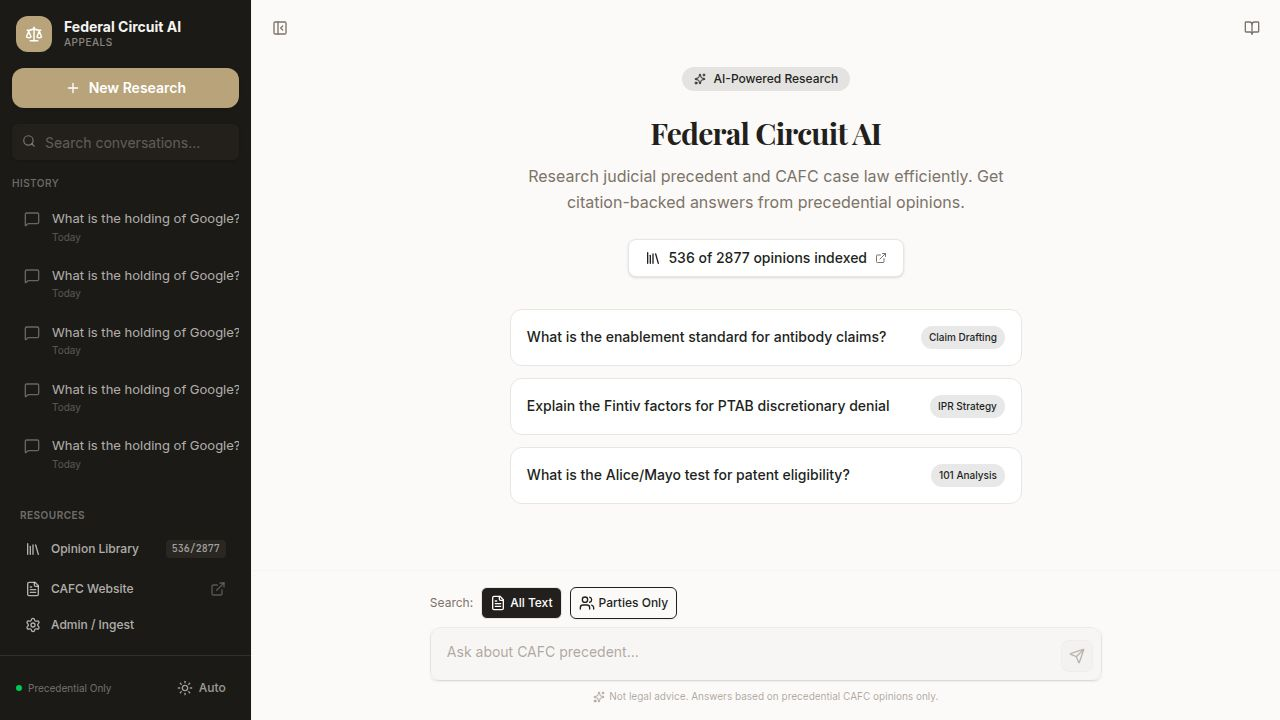
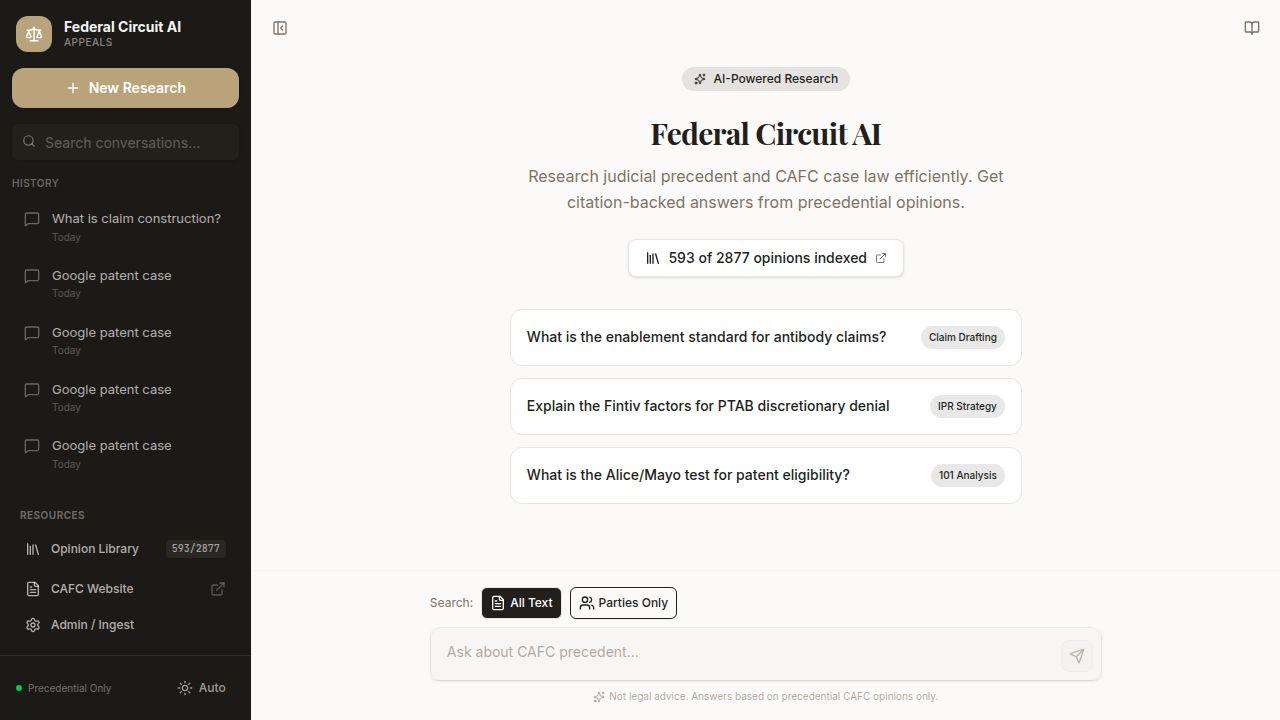
Add scrolling and pagination to the opinion library view
Implement backend pagination for the opinions API and frontend "Load More" functionality to handle large datasets.

Replit-Commit-Author: Agent
Replit-Commit-Session-Id: 0608863a-c6de-4dca-b7b4-8b1d73e154b5
Replit-Commit-Checkpoint-Type: full_checkpoint
Replit-Commit-Event-Id: 8d8f3153-f0ce-494b-bbab-8d51ba1b33dd
Replit-Commit-Screenshot-Url: https://storage.googleapis.com/screenshot-production-us-central1/650168ab-ab63-4784-bdec-74acb30694c8/0608863a-c6de-4dca-b7b4-8b1d73e154b5/NAsC59C
Replit-Helium-Checkpoint-Created: true

diff --git a/client/src/components/OpinionLibrary.tsx b/client/src/components/OpinionLibrary.tsx
@@ -16,27 +16,78 @@ import {
   CheckCircle2, 
   Circle,
   ExternalLink,
-  Loader2
+  Loader2,
+  ChevronDown
 } from "lucide-react";
 import { useApp } from "@/context/AppContext";
-import { useOpinions, useSyncOpinions, useIngestOpinion, useStatus } from "@/hooks/useOpinions";
-import { useState } from "react";
+import { useSyncOpinions, useIngestOpinion, useStatus } from "@/hooks/useOpinions";
+import { useState, useCallback, useEffect } from "react";
+import { fetchOpinions } from "@/lib/api";
+import type { Opinion } from "@shared/schema";
+
+const PAGE_SIZE = 50;
 
 export function OpinionLibrary() {
   const { showOpinionLibrary, setShowOpinionLibrary } = useApp();
   const [searchTerm, setSearchTerm] = useState("");
+  const [debouncedSearch, setDebouncedSearch] = useState("");
   const [ingestingId, setIngestingId] = useState<string | null>(null);
+  const [opinions, setOpinions] = useState<Opinion[]>([]);
+  const [hasMore, setHasMore] = useState(false);
+  const [offset, setOffset] = useState(0);
+  const [isLoading, setIsLoading] = useState(false);
+  const [isLoadingMore, setIsLoadingMore] = useState(false);
+  const [total, setTotal] = useState(0);
   
-  const { data, isLoading } = useOpinions();
   const { data: status } = useStatus();
   const syncOpinions = useSyncOpinions();
   const ingestOpinion = useIngestOpinion();
 
-  const opinions = data?.opinions || [];
-  const filteredOpinions = opinions.filter(op => 
-    op.caseName.toLowerCase().includes(searchTerm.toLowerCase()) ||
-    op.appealNo.toLowerCase().includes(searchTerm.toLowerCase())
-  );
+  useEffect(() => {
+    const timer = setTimeout(() => setDebouncedSearch(searchTerm), 300);
+    return () => clearTimeout(timer);
+  }, [searchTerm]);
+
+  const loadOpinions = useCallback(async (reset = false) => {
+    const newOffset = reset ? 0 : offset;
+    if (reset) {
+      setIsLoading(true);
+    } else {
+      setIsLoadingMore(true);
+    }
+    
+    try {
+      const data = await fetchOpinions({
+        limit: PAGE_SIZE,
+        offset: newOffset,
+        q: debouncedSearch || undefined
+      });
+      
+      if (reset) {
+        setOpinions(data.opinions);
+      } else {
+        setOpinions(prev => [...prev, ...data.opinions]);
+      }
+      setHasMore(data.hasMore);
+      setTotal(data.total);
+      setOffset(newOffset + data.opinions.length);
+    } catch (error) {
+      console.error("Failed to load opinions:", error);
+    } finally {
+      setIsLoading(false);
+      setIsLoadingMore(false);
+    }
+  }, [offset, debouncedSearch]);
+
+  useEffect(() => {
+    if (showOpinionLibrary) {
+      loadOpinions(true);
+    }
+  }, [showOpinionLibrary, debouncedSearch]);
+
+  const handleLoadMore = () => {
+    loadOpinions(false);
+  };
 
   const handleSync = async () => {
     try {
@@ -131,7 +182,7 @@ export function OpinionLibrary() {
                 <div className="flex items-center justify-center py-12">
                   <Loader2 className="h-6 w-6 animate-spin text-muted-foreground" />
                 </div>
-              ) : filteredOpinions.length === 0 ? (
+              ) : opinions.length === 0 ? (
                 <div className="text-center py-12 text-muted-foreground">
                   {searchTerm ? (
                     <p>No opinions match your search</p>
@@ -145,7 +196,8 @@ export function OpinionLibrary() {
                   )}
                 </div>
               ) : (
-                filteredOpinions.map((opinion) => (
+                <>
+                {opinions.map((opinion) => (
                   <div 
                     key={opinion.id}
                     className="p-3 hover:bg-muted/30 transition-colors grid grid-cols-[auto_1fr_auto] gap-3 items-center"
@@ -225,7 +277,26 @@ export function OpinionLibrary() {
                       </a>
                     </div>
                   </div>
-                ))
+                ))}
+                {hasMore && (
+                  <div className="p-4 text-center">
+                    <Button
+                      variant="outline"
+                      onClick={handleLoadMore}
+                      disabled={isLoadingMore}
+                      className="gap-2"
+                      data-testid="button-load-more"
+                    >
+                      {isLoadingMore ? (
+                        <Loader2 className="h-4 w-4 animate-spin" />
+                      ) : (
+                        <ChevronDown className="h-4 w-4" />
+                      )}
+                      Load More ({opinions.length} of {total})
+                    </Button>
+                  </div>
+                )}
+                </>
               )}
             </div>
           </ScrollArea>

diff --git a/client/src/lib/api.ts b/client/src/lib/api.ts
@@ -93,12 +93,16 @@ export async function fetchStatus(): Promise<{ status: string; opinions: Opinion
 export async function fetchOpinions(options?: {
   status?: string;
   limit?: number;
+  offset?: number;
   ingested?: boolean;
-}): Promise<{ opinions: Opinion[]; total: number; ingested: number }> {
+  q?: string;
+}): Promise<{ opinions: Opinion[]; total: number; ingested: number; hasMore: boolean; offset: number; limit: number }> {
   const params = new URLSearchParams();
   if (options?.status) params.set("status", options.status);
   if (options?.limit) params.set("limit", options.limit.toString());
+  if (options?.offset) params.set("offset", options.offset.toString());
   if (options?.ingested !== undefined) params.set("ingested", options.ingested.toString());
+  if (options?.q) params.set("q", options.q);
   
   const url = `/api/opinions${params.toString() ? `?${params}` : ""}`;
   const res = await apiRequest("GET", url);

diff --git a/backend/main.py b/backend/main.py
@@ -93,12 +93,16 @@ async def sync_opinions():
 async def list_opinions(
     q: Optional[str] = None,
     origin: Optional[str] = None,
-    ingested: Optional[bool] = None
+    ingested: Optional[bool] = None,
+    limit: int = 50,
+    offset: int = 0
 ):
-    documents = db.get_documents(q=q, origin=origin, ingested=ingested)
+    documents = db.get_documents(q=q, origin=origin, ingested=ingested, limit=limit, offset=offset)
     documents = serialize_for_json(documents)
-    total = len(documents)
-    ingested_count = sum(1 for d in documents if d.get("ingested"))
+    
+    stats = db.get_ingestion_stats()
+    total = stats.get('total_documents', 0)
+    ingested_count = stats.get('ingested', 0)
     
     camel_docs = []
     for doc in documents:
@@ -110,7 +114,10 @@ async def list_opinions(
     return {
         "opinions": camel_docs,
         "total": total,
-        "ingested": ingested_count
+        "ingested": ingested_count,
+        "limit": limit,
+        "offset": offset,
+        "hasMore": offset + len(camel_docs) < total
     }
 
 @app.get("/api/opinions/{opinion_id}")
